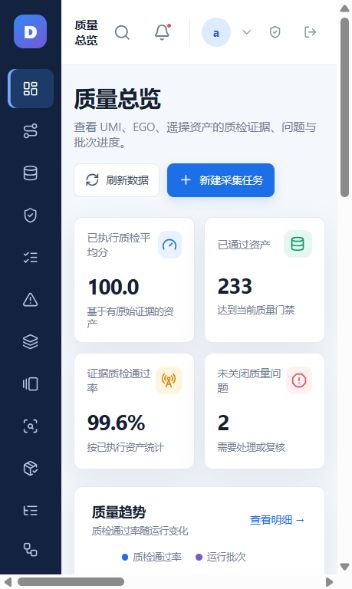
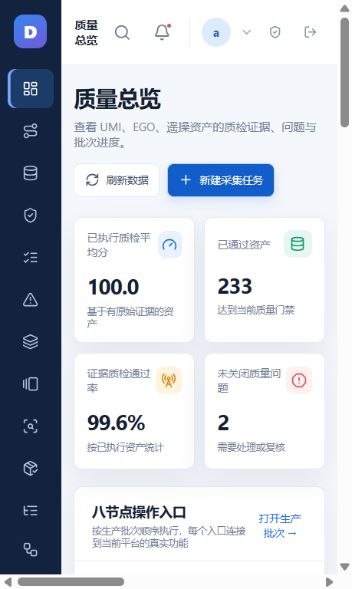
feat: add eight-node workflow entrypoints

Changed region(s): [[0.25, 0.8557, 0.875, 0.9779], [0.4688, 0.275, 0.7812, 0.3362], [0.9688, 0.2139, 1.0, 0.3362]]

diff --git a/index.html b/index.html
@@ -11,6 +11,7 @@
     .main{flex:1;min-width:0}.topbar{height:68px;background:#fff;border-bottom:1px solid var(--line);display:flex;align-items:center;justify-content:space-between;padding:0 30px}.crumb{display:flex;gap:8px;align-items:center;color:var(--muted);font-size:12px}.crumb strong{color:var(--text)}.top-actions{display:flex;align-items:center;gap:8px}.icon-btn{position:relative;border:0;background:transparent;color:#6f7d94;border-radius:8px;width:34px;height:34px;display:grid;place-items:center}.icon-btn:hover{background:#f4f7fb;color:var(--primary)}.icon-btn svg{width:18px;height:18px}.notif-dot{position:absolute;width:6px;height:6px;background:var(--red);border:1px solid #fff;border-radius:50%;right:7px;top:7px}.user{border-left:1px solid var(--line);padding-left:12px;margin-left:3px;display:flex;gap:9px;align-items:center}.avatar{width:31px;height:31px;border-radius:50%;background:#ddebff;color:#2b65c7;display:grid;place-items:center;font-size:12px;font-weight:700}.user b{font-size:11px;display:block}.user small{color:var(--muted);font-size:10px;display:block;margin-top:2px}
     .content{padding:25px 30px 40px;max-width:1600px}.page-head{display:flex;justify-content:space-between;align-items:flex-end;margin-bottom:21px}.page-head h1{font-size:23px;letter-spacing:-.4px;margin:0 0 7px}.page-head p{margin:0;color:var(--muted);font-size:12px}.actions{display:flex;align-items:center;gap:8px}.btn,.select,.input{height:35px;border:1px solid var(--line);background:#fff;color:#44536d;border-radius:7px;padding:0 11px;font-size:11px}.btn{display:inline-flex;align-items:center;gap:7px}.btn svg{width:15px;height:15px}.btn.primary{background:var(--primary);border-color:var(--primary);color:#fff;box-shadow:0 4px 10px #1d6fe82b}.btn:hover{border-color:#bcc8d9}.btn.primary:hover{background:#115dcc}.select{padding-right:28px}
     .kpis{display:grid;grid-template-columns:repeat(4,minmax(0,1fr));gap:14px;margin-bottom:17px}.kpi{background:#fff;border:1px solid var(--line);border-radius:9px;padding:16px 17px;box-shadow:var(--shadow);min-height:122px}.kpi-top{display:flex;justify-content:space-between;align-items:center;color:var(--muted);font-size:11px}.kpi-icon{width:29px;height:29px;border-radius:8px;display:grid;place-items:center}.kpi-icon svg{width:16px;height:16px}.blue{color:var(--primary);background:var(--primary-soft)}.green{color:var(--green);background:var(--green-soft)}.amber{color:var(--amber);background:var(--amber-soft)}.red{color:var(--red);background:var(--red-soft)}.kpi-value{font-size:26px;font-weight:750;letter-spacing:-.6px;line-height:1;margin:17px 0 9px}.kpi-foot{font-size:10px;color:var(--muted);display:flex;gap:6px}.up{color:var(--green)}.down{color:var(--red)}
+    .process-entry-panel{margin-bottom:17px;overflow:hidden}.process-entry-grid{display:grid;grid-template-columns:repeat(4,minmax(0,1fr));border-top:1px solid var(--line)}.process-entry{min-height:132px;display:flex;align-items:flex-start;gap:12px;text-align:left;border:0;border-right:1px solid var(--line);border-bottom:1px solid var(--line);background:#fff;padding:17px 16px;transition:.18s}.process-entry:nth-child(4n){border-right:0}.process-entry:hover{background:#f7faff;box-shadow:inset 0 -2px var(--primary)}.process-number{font-size:11px;font-weight:750;color:var(--primary);padding-top:1px;flex:none}.process-entry-copy{min-width:0}.process-entry-copy b{display:block;font-size:13px;color:var(--text);margin-bottom:7px}.process-entry-copy small{display:block;min-height:32px;color:var(--muted);font-size:10px;line-height:1.55}.process-entry-copy a{display:inline-block;margin-top:10px;color:var(--primary);font-size:10px;font-weight:650}.process-entry-copy a:after{content:"";display:block;height:1px;background:currentColor;opacity:.4;margin-top:2px}
     .panel{background:#fff;border:1px solid var(--line);border-radius:9px;box-shadow:var(--shadow)}.panel-head{padding:16px 18px 12px;display:flex;align-items:center;justify-content:space-between}.panel-title{font-weight:700;font-size:14px}.panel-sub{font-size:10px;color:var(--muted);margin-top:4px}.link{border:0;background:none;color:var(--primary);font-size:11px;padding:3px}.layout-top{display:grid;grid-template-columns:minmax(0,1.45fr) minmax(320px,.9fr);gap:17px;margin-bottom:17px}.chart-wrap{padding:3px 18px 15px}.legend{display:flex;gap:15px;color:var(--muted);font-size:10px;margin:0 0 4px 31px}.legend span{display:flex;align-items:center;gap:5px}.legend i{width:7px;height:7px;border-radius:50%}.chart{width:100%;height:205px;display:block}.chart text{fill:#98a3b7;font-size:10px;font-family:inherit}.chart .gridline{stroke:#edf0f5}.chart .axis{stroke:#dfe5ed}.chart .la{fill:none;stroke:var(--primary);stroke-width:2.5}.chart .lb{fill:none;stroke:var(--purple);stroke-width:2.5}.chart .pa{fill:#fff;stroke:var(--primary);stroke-width:2}.chart .pb{fill:#fff;stroke:var(--purple);stroke-width:2}
     .health{padding:1px 18px 17px}.score{display:flex;align-items:center;gap:17px;padding:9px 0 14px}.ring{width:87px;height:87px;border-radius:50%;background:conic-gradient(var(--green) 0 92.6%,#e9f1ee 92.6%);display:grid;place-items:center;position:relative}.ring:after{content:"";position:absolute;inset:8px;border-radius:50%;background:#fff}.ring b{position:relative;z-index:1;font-size:21px}.score b{font-size:13px}.score p{font-size:10px;color:var(--muted);line-height:1.6;margin:5px 0 0}.metric{border-top:1px solid var(--line);padding:11px 0 8px}.metric-line{display:flex;justify-content:space-between;font-size:10px;color:#65728a;margin-bottom:7px}.metric-line b{color:var(--text);font-weight:650}.progress{height:5px;border-radius:8px;background:#edf1f5;overflow:hidden}.progress i{height:100%;display:block;background:var(--green);border-radius:8px}.progress i.warn{background:var(--amber)}
     .layout-bottom{display:grid;grid-template-columns:minmax(0,1.2fr) minmax(360px,.8fr);gap:17px}.table-toolbar{display:flex;gap:7px;align-items:center;padding:0 18px 13px}.search{height:32px;display:flex;align-items:center;gap:7px;border:1px solid var(--line);border-radius:6px;padding:0 9px;background:#fff;flex:1;max-width:260px}.search svg{width:14px;color:#96a2b6}.search input{border:0;outline:0;min-width:0;width:100%;font-size:11px}.filter-select{height:32px;border:1px solid var(--line);border-radius:6px;background:#fff;color:#637087;font-size:10px;padding:0 22px 0 8px}table{border-collapse:collapse;width:100%;min-width:640px}th,td{border-top:1px solid #eef1f5;padding:11px 18px;text-align:left;white-space:nowrap}th{background:#fbfcfe;color:#8c98aa;font-size:10px;font-weight:500}td{font-size:10px;color:#46536a}td:first-child{color:var(--text);font-weight:650}.table-scroll{overflow-x:auto}.status{display:inline-flex;align-items:center;gap:5px;border-radius:20px;padding:4px 8px;font-size:9px}.status:before{content:"";width:5px;height:5px;background:currentColor;border-radius:50%}.high{color:var(--red);background:var(--red-soft)}.medium{color:var(--amber);background:var(--amber-soft)}.low{color:var(--green);background:var(--green-soft)}
@@ -18,8 +19,8 @@
     .drawer,.modal{position:fixed;inset:0;background:#10224255;display:none;z-index:20}.drawer.show,.modal.show{display:block}.drawer-panel{position:absolute;right:0;top:0;height:100%;width:min(570px,100%);background:#fff;box-shadow:-18px 0 35px #10224220;display:flex;flex-direction:column}.drawer-head{padding:18px 21px;border-bottom:1px solid var(--line);display:flex;align-items:center;justify-content:space-between}.drawer-head h3{font-size:15px;margin:0}.drawer-body{padding:18px 21px;overflow:auto}.close{border:0;background:transparent;color:#76839a;width:30px;height:30px;border-radius:6px;display:grid;place-items:center}.close:hover{background:var(--bg)}.detail-grid{display:grid;grid-template-columns:repeat(2,1fr);gap:10px;margin-bottom:17px}.detail-card{border:1px solid var(--line);border-radius:7px;padding:11px}.detail-card span{display:block;color:var(--muted);font-size:9px;margin-bottom:5px}.detail-card b{font-size:12px}.timeline{border-left:2px solid #dfe8f7;padding-left:16px}.timeline-item{position:relative;padding:0 0 17px;font-size:10px;color:#58667e}.timeline-item:before{content:"";position:absolute;left:-22px;top:2px;width:7px;height:7px;border-radius:50%;background:var(--primary);box-shadow:0 0 0 3px var(--primary-soft)}.timeline-item b{display:block;color:var(--text);font-size:11px;margin-bottom:3px}.drawer-footer{margin-top:auto;border-top:1px solid var(--line);padding:13px 21px;display:flex;justify-content:flex-end;gap:8px}
     .modal-card{width:min(520px,calc(100% - 28px));background:#fff;border-radius:9px;margin:10vh auto 0;box-shadow:var(--shadow);overflow:hidden}.modal-body{padding:18px}.field{display:grid;gap:6px;margin-bottom:13px}.field label{font-size:10px;color:#5d6b83}.field input,.field select,.field textarea{border:1px solid var(--line);border-radius:6px;padding:9px;font-size:11px;outline:0}.field textarea{resize:vertical;min-height:72px}.modal-foot{display:flex;justify-content:flex-end;gap:8px;border-top:1px solid var(--line);padding:13px 18px}.toast{position:fixed;right:22px;bottom:22px;background:#152b4d;color:#fff;font-size:11px;padding:11px 14px;border-radius:7px;box-shadow:0 10px 25px #1022423b;opacity:0;transform:translateY(8px);pointer-events:none;transition:.2s;z-index:30}.toast.show{opacity:1;transform:translateY(0)}
     .module-grid{display:grid;grid-template-columns:repeat(3,minmax(0,1fr));gap:14px;margin-bottom:17px}.module-stat{background:#fff;border:1px solid var(--line);border-radius:8px;padding:15px 16px;box-shadow:var(--shadow)}.module-stat span{font-size:10px;color:var(--muted)}.module-stat b{display:block;font-size:22px;margin:10px 0 5px}.module-stat small{font-size:9px;color:var(--muted)}.module-actions{display:flex;align-items:center;gap:8px;padding:0 18px 14px;flex-wrap:wrap}.module-table tr{cursor:pointer}.module-table tr:hover td{background:#f8faff}.tag{display:inline-flex;padding:4px 7px;border-radius:5px;font-size:9px;color:#44536d;background:#eef2f7}.switch{width:34px;height:19px;border:0;border-radius:20px;background:#cfd6e2;position:relative;vertical-align:middle}.switch:after{content:"";position:absolute;width:15px;height:15px;border-radius:50%;background:#fff;left:2px;top:2px;box-shadow:0 1px 3px #26395433;transition:.2s}.switch.on{background:var(--primary)}.switch.on:after{left:17px}.empty-state{text-align:center;padding:50px;color:var(--muted)}.empty-state svg{width:32px;height:32px;margin:0 auto 10px;color:#9eacc0}
-    @media(max-width:1120px){.sidebar{width:205px;flex-basis:205px}.content{padding:22px}.topbar{padding:0 22px}.layout-top,.layout-bottom{grid-template-columns:1fr}.module-grid{grid-template-columns:1fr}}
-    @media(max-width:760px){.sidebar{width:64px;flex-basis:64px;padding:15px 8px}.brand{padding:0 6px 22px}.brand div:not(.brand-mark),.nav-title,.nav button span,.side-foot{display:none}.nav button{justify-content:center;padding:12px}.content{padding:18px 13px 30px}.topbar{padding:0 14px}.crumb span{display:none}.user div:not(.avatar){display:none}.page-head{display:block}.actions{margin-top:14px;flex-wrap:wrap}.kpis{grid-template-columns:repeat(2,1fr);gap:10px}.kpi{padding:13px}.kpi-value{font-size:22px}.table-toolbar{flex-wrap:wrap}.search{max-width:none;flex-basis:100%}}
+    @media(max-width:1120px){.sidebar{width:205px;flex-basis:205px}.content{padding:22px}.topbar{padding:0 22px}.layout-top,.layout-bottom{grid-template-columns:1fr}.module-grid{grid-template-columns:1fr}.process-entry-grid{grid-template-columns:repeat(2,minmax(0,1fr))}.process-entry:nth-child(4n){border-right:1px solid var(--line)}.process-entry:nth-child(2n){border-right:0}}
+    @media(max-width:760px){.sidebar{width:64px;flex-basis:64px;padding:15px 8px}.brand{padding:0 6px 22px}.brand div:not(.brand-mark),.nav-title,.nav button span,.side-foot{display:none}.nav button{justify-content:center;padding:12px}.content{padding:18px 13px 30px}.topbar{padding:0 14px}.crumb span{display:none}.user div:not(.avatar){display:none}.page-head{display:block}.actions{margin-top:14px;flex-wrap:wrap}.kpis{grid-template-columns:repeat(2,1fr);gap:10px}.kpi{padding:13px}.kpi-value{font-size:22px}.table-toolbar{flex-wrap:wrap}.search{max-width:none;flex-basis:100%}.process-entry-grid{grid-template-columns:1fr}.process-entry{border-right:0}.process-entry:nth-child(2n){border-right:0}}
   </style>
   <link rel="stylesheet" href="assets/extensions.css?v=20260923-v29" />
 </head>
@@ -44,6 +45,16 @@
       <section class="content">
         <div class="page-head"><div><h1 id="pageTitle">质量总览</h1><p id="pageDesc">查看 UMI、EGO、遥操资产的质检证据、问题与批次进度。</p></div><div class="actions"><select class="select" id="rangeSelect"><option>近 7 天</option><option>近 30 天</option><option>本季度</option></select><button class="btn" id="refreshBtn"><i data-lucide="refresh-cw"></i>刷新数据</button><button class="btn primary" id="createBtn"><i data-lucide="plus"></i>新建采集任务</button></div></div>
         <div id="overviewContent"><div class="kpis"><div class="kpi"><div class="kpi-top">质检通过资产平均分<div class="kpi-icon blue"><i data-lucide="gauge"></i></div></div><div class="kpi-value" id="overviewQualityScore">--</div><div class="kpi-foot"><span>基于有原始证据的资产</span></div></div><div class="kpi"><div class="kpi-top">已通过资产<div class="kpi-icon green"><i data-lucide="database"></i></div></div><div class="kpi-value" id="overviewPassedAssets">0</div><div class="kpi-foot"><span>达到当前质量门禁</span></div></div><div class="kpi"><div class="kpi-top">证据质检通过率<div class="kpi-icon amber"><i data-lucide="radio-tower"></i></div></div><div class="kpi-value" id="overviewPassRate">--</div><div class="kpi-foot"><span>按已执行资产统计</span></div></div><div class="kpi"><div class="kpi-top">未关闭质量问题<div class="kpi-icon red"><i data-lucide="octagon-alert"></i></div></div><div class="kpi-value" id="overviewIssueCount">0</div><div class="kpi-foot"><span>需要处理或复核</span></div></div></div>
+        <section class="panel process-entry-panel"><div class="panel-head"><div><div class="panel-title">八节点操作入口</div><div class="panel-sub">按生产批次顺序执行，每个入口连接到当前平台的真实功能</div></div><button class="link" id="processWorkflowLink">打开生产批次 →</button></div><div class="process-entry-grid">
+          <button class="process-entry" data-process-entry="workflow" type="button"><span class="process-number">01</span><span class="process-entry-copy"><b>上传 / 导入</b><small>导入总文件夹，自动识别 meta、data、video</small><a>进入导入 →</a></span></button>
+          <button class="process-entry" data-process-entry="qc" type="button"><span class="process-number">02</span><span class="process-entry-copy"><b>数据清洗</b><small>检查文件签名、结构和服务端存储一致性</small><a>查看清洗 →</a></span></button>
+          <button class="process-entry" data-process-entry="assets" type="button"><span class="process-number">03</span><span class="process-entry-copy"><b>数据筛选</b><small>按类型、场景和批次门禁筛选可用资产</small><a>筛选资产 →</a></span></button>
+          <button class="process-entry" data-process-entry="annotation" type="button"><span class="process-number">04</span><span class="process-entry-copy"><b>数据标注</b><small>维护 Episode 指令、结果和标注版本</small><a>进入标注 →</a></span></button>
+          <button class="process-entry" data-process-entry="annotation" type="button"><span class="process-number">05</span><span class="process-entry-copy"><b>标注审核</b><small>独立复核标注，审核结果参与验收门禁</small><a>进入审核 →</a></span></button>
+          <button class="process-entry" data-process-entry="qc" type="button"><span class="process-number">06</span><span class="process-entry-copy"><b>数据质检</b><small>运行规则、LeRobot schema 和媒体一致性检查</small><a>执行质检 →</a></span></button>
+          <button class="process-entry" data-process-entry="exports" type="button"><span class="process-number">07</span><span class="process-entry-copy"><b>格式转换</b><small>确认交付格式并记录输入指纹和转换证据</small><a>查看转换 →</a></span></button>
+          <button class="process-entry" data-process-entry="exports" type="button"><span class="process-number">08</span><span class="process-entry-copy"><b>打包交付</b><small>验收通过后生成 Manifest、质检报告和标注清单</small><a>进入交付 →</a></span></button>
+        </div></section>
         <div class="layout-top"><section class="panel"><div class="panel-head"><div><div class="panel-title">质量趋势</div><div class="panel-sub">综合评分与同步通过率变化</div></div><button class="link" id="trendDetail">查看明细 →</button></div><div class="chart-wrap"><div class="legend"><span><i style="background:#1d6fe8"></i>综合评分</span><span><i style="background:#7559d5"></i>同步通过率</span></div><svg class="chart" viewBox="0 0 700 220" preserveAspectRatio="none"><line class="gridline" x1="42" y1="22" x2="680" y2="22"/><line class="gridline" x1="42" y1="65" x2="680" y2="65"/><line class="gridline" x1="42" y1="108" x2="680" y2="108"/><line class="gridline" x1="42" y1="151" x2="680" y2="151"/><line class="axis" x1="42" y1="194" x2="680" y2="194"/><text x="9" y="26">100</text><text x="14" y="69">95</text><text x="14" y="112">90</text><text x="14" y="155">85</text><text x="14" y="198">80</text><text x="49" y="214">06/22</text><text x="154" y="214">06/23</text><text x="260" y="214">06/24</text><text x="365" y="214">06/25</text><text x="470" y="214">06/26</text><text x="577" y="214">06/27</text><text x="648" y="214">06/28</text><polyline class="la" points="50,112 156,101 262,116 368,75 474,83 580,62 680,50"/><polyline class="lb" points="50,82 156,91 262,74 368,69 474,55 580,62 680,49"/><g><circle class="pa" cx="50" cy="112" r="3.5"/><circle class="pa" cx="156" cy="101" r="3.5"/><circle class="pa" cx="262" cy="116" r="3.5"/><circle class="pa" cx="368" cy="75" r="3.5"/><circle class="pa" cx="474" cy="83" r="3.5"/><circle class="pa" cx="580" cy="62" r="3.5"/><circle class="pa" cx="680" cy="50" r="3.5"/><circle class="pb" cx="50" cy="82" r="3.5"/><circle class="pb" cx="156" cy="91" r="3.5"/><circle class="pb" cx="262" cy="74" r="3.5"/><circle class="pb" cx="368" cy="69" r="3.5"/><circle class="pb" cx="474" cy="55" r="3.5"/><circle class="pb" cx="580" cy="62" r="3.5"/><circle class="pb" cx="680" cy="49" r="3.5"/></g></svg></div></section>
           <section class="panel"><div class="panel-head"><div><div class="panel-title">质量健康度</div><div class="panel-sub">三类数据真实验收表现</div></div><button class="link" id="healthDetail">详情 →</button></div><div class="health"><div class="score"><div class="ring" id="healthRing"><b id="healthScore">--</b></div><div><b id="healthState">等待证据质检</b><p id="healthSummary">正在读取服务端验收结果</p></div></div><div class="metric"><div class="metric-line"><span>UMI 数据</span><b id="healthUmi">--</b></div><div class="progress"><i id="healthUmiBar" style="width:0%"></i></div></div><div class="metric"><div class="metric-line"><span>EGO 数据</span><b id="healthEgo">--</b></div><div class="progress"><i id="healthEgoBar" style="width:0%"></i></div></div><div class="metric"><div class="metric-line"><span>遥操数据</span><b id="healthTeleop">--</b></div><div class="progress"><i class="warn" id="healthTeleopBar" style="width:0%"></i></div></div></div></section></div>
          <div class="layout-bottom"><section class="panel"><div class="panel-head"><div><div class="panel-title">待处理质量问题</div><div class="panel-sub">需要审核或返工的高优先级数据</div></div><button class="link" id="allIssues">读取中…</button></div><div class="table-toolbar"><div class="search"><i data-lucide="search"></i><input id="issueSearch" placeholder="搜索问题、资产或字段" /></div><select class="filter-select" id="typeFilter"><option value="all">全部类型</option><option value="UMI">UMI</option><option value="EGO">EGO</option><option value="遥操">遥操</option></select><select class="filter-select" id="levelFilter"><option value="all">全部优先级</option><option value="高">高</option><option value="中">中</option></select></div><div class="table-scroll"><table><thead><tr><th>问题描述</th><th>数据类型</th><th>数据资产</th><th>影响字段</th><th>发现时间</th><th>优先级</th></tr></thead><tbody id="issueBody"><tr><td colspan="6"><div class="empty-inline">正在读取服务端问题清单</div></td></tr></tbody></table></div></section>

diff --git a/assets/extensions.js b/assets/extensions.js
@@ -204,17 +204,18 @@
     showPage(key);
   }
   function workflowStages(selected,assets,openIssues,batches,exportsList,accepted,delivered){
-    const episodes=assets.filter(asset=>asset.bundleRole==='trajectory'&&/episode_\d+\.parquet$/i.test(asset.relativePath||asset.name)),episodeIds=new Set(episodes.map(asset=>asset.id)),annotations=extRead('embodiedAnnotations',[]).filter(item=>episodeIds.has(item.assetId)),approved=episodes.filter(asset=>annotations.some(item=>item.assetId===asset.id&&item.status==='已通过'&&String(item.instruction||'').trim()&&['success','failure'].includes(item.outcome))).length;
+    const episodes=assets.filter(asset=>asset.bundleRole==='trajectory'&&/episode_\d+\.parquet$/i.test(asset.relativePath||asset.name)),episodeIds=new Set(episodes.map(asset=>asset.id)),annotations=extRead('embodiedAnnotations',[]).filter(item=>episodeIds.has(item.assetId)),annotationComplete=episodes.length>0&&annotations.length===episodes.length&&annotations.every(item=>String(item.instruction||'').trim()&&['success','failure'].includes(item.outcome)),approved=episodes.filter(asset=>annotations.some(item=>item.assetId===asset.id&&item.status==='已通过'&&String(item.instruction||'').trim()&&['success','failure'].includes(item.outcome))).length;
     const cleanCount=assets.filter(asset=>asset.serverFile&&asset.inspection?.empty!==true&&asset.serverFile.contentCheck?.valid!==false&&asset.serverFile.deepCheck?.status!=='invalid').length;
-    const assetIds=new Set(assets.map(asset=>asset.id));
-    const cleanDone=assets.length>0&&cleanCount===assets.length, qcDone=assets.length>0&&assets.every(item=>item.lastQcAt), annotationDone=episodes.length>0&&approved===episodes.length, issueDone=qcDone&&openIssues.length===0&&annotationDone, issueAction=openIssues.length?'issues':annotationDone?'issues':'annotation', latestBatch=batches.find(batch=>Array.isArray(batch.targetIds)&&batch.targetIds.some(id=>assetIds.has(id))), latestExport=exportsList.find(job=>selected&&String(job.name||'').startsWith(String(selected.name||'')));
+    const assetIds=new Set(assets.map(asset=>asset.id)),cleanDone=assets.length>0&&cleanCount===assets.length,qcDone=assets.length>0&&assets.every(item=>item.lastQcAt),reviewDone=annotationComplete&&approved===episodes.length,issueDone=qcDone&&openIssues.length===0&&reviewDone,latestBatch=batches.find(batch=>Array.isArray(batch.targetIds)&&batch.targetIds.some(id=>assetIds.has(id))),latestExport=exportsList.find(job=>selected&&String(job.name||'').startsWith(String(selected.name||''))),convertDone=Boolean(latestExport?.format),deliverDone=Boolean(latestExport&&latestExport.status==='清单就绪');
     return [
-      {key:'import',label:'导入批次',done:assets.length>0,detail:assets.length?`${assets.length} 个资产已入库`:'等待选择总文件夹',action:'import'},
-      {key:'qc',label:'自动质检',done:qcDone,detail:latestBatch?`${latestBatch.id} · 通过率 ${latestBatch.passRate}% · 基础检查 ${cleanCount}/${assets.length}`:`基础检查 ${cleanCount}/${assets.length}，等待执行证据质检`,action:'qc'},
-      {key:'annotation',label:'Episode 标注',done:annotationDone,detail:!qcDone?'质检完成后生成 Episode 标注队列':episodes.length?`${approved}/${episodes.length} 个 Episode 已审核`:selected?'未识别 Episode 轨迹':'等待导入数据包',action:'annotation'},
-      {key:'issues',label:'问题处理',done:issueDone,detail:!qcDone?'质检完成后生成问题单':openIssues.length?`${openIssues.length} 条问题未关闭`:annotationDone?'无未关闭问题':'等待 Episode 标注完成',action:issueAction},
-      {key:'accept',label:'批次验收',done:accepted,detail:accepted?'已签署验收':selected?.status==='待验收'?'等待负责人签署':selected&&!selected.ready?`仍有 ${bundleBlockers(selected).length} 项门禁未满足`:'问题清零后提交验收',action:'accept'},
-      {key:'deliver',label:'交付',done:delivered,detail:delivered?'已有交付记录':latestExport?'已生成交付 Manifest，等待打包':'验收后生成可追溯交付包',action:'exports'},
+      {key:'import',label:'上传 / 导入',done:assets.length>0,detail:assets.length?`${assets.length} 个资产已入库`:'等待选择总文件夹',action:'import'},
+      {key:'clean',label:'数据清洗',done:cleanDone,detail:assets.length?`基础检查 ${cleanCount}/${assets.length}`:'导入后自动检查文件结构',action:'clean'},
+      {key:'select',label:'数据筛选',done:Boolean(selected&&assets.length),detail:selected?`${assets.length} 个资产已纳入当前批次`:'先选择一个生产批次',action:'select'},
+      {key:'annotate',label:'数据标注',done:annotationComplete,detail:!qcDone?'质检后生成 Episode 标注队列':episodes.length?`${annotations.length}/${episodes.length} 个 Episode 已填写标注`:'未识别 Episode 轨迹',action:'annotate'},
+      {key:'review',label:'标注审核',done:reviewDone,detail:annotationComplete?`${approved}/${episodes.length} 个 Episode 已通过审核`:'完成标注后进入独立审核',action:'review'},
+      {key:'quality',label:'数据质检',done:qcDone,detail:latestBatch?`${latestBatch.id} · 通过率 ${latestBatch.passRate}%`:'等待执行证据质检',action:'quality'},
+      {key:'convert',label:'格式转换',done:convertDone,detail:latestExport?`已记录 ${latestExport.format} 交付格式`:'验收通过后生成格式清单',action:'convert'},
+      {key:'deliver',label:'打包交付',done:deliverDone,detail:deliverDone?`Manifest ${latestExport.id} 已就绪`:'完成验收后生成可追溯交付清单',action:'deliver'},
     ];
   }
   function workflowTemplate(){
@@ -222,14 +223,14 @@
     if(!activeWorkflowBundleId&&packages[0])activeWorkflowBundleId=packages[0].id;
     const selected=packages.find(item=>item.id===activeWorkflowBundleId)||packages[0]||null,assets=selected?selected.files:snapshot.assets,openIssues=selected?snapshot.openIssues.filter(issue=>assets.some(asset=>asset.id===issue.assetId)):snapshot.openIssues,annotationPending=selected?.annotationPending||0,qcDone=assets.length>0&&assets.every(item=>item.lastQcAt),ready=Boolean(selected?.ready),accepted=selected?.status==='已验收',delivered=exportsList.some(job=>selected&&String(job.name||'').startsWith(String(selected.name||''))),typeSummary=['UMI','EGO','遥操'].map(type=>`${type} ${assets.filter(item=>item.type===type).length}`).join(' · '),batchName=selected?.name||latestAsset?.scene||'尚未导入生产批次',stages=workflowStages(selected,assets,openIssues,batches,exportsList,accepted,delivered),latestBatch=batches.find(batch=>Array.isArray(batch.targetIds)&&batch.targetIds.some(id=>assets.some(asset=>asset.id===id))),latestExport=exportsList.find(job=>selected&&String(job.name||'').startsWith(String(selected.name||''))),roleSummary=selected?.roles instanceof Set?[...selected.roles].join(' / '):Array.isArray(selected?.roles)?selected.roles.join(' / '):String(selected?.roles||''),blockers=selected?bundleBlockers(selected):['请先导入一个完整数据包'];
     if(selected?.roles instanceof Set) selected.roles=[...selected.roles];
-     const firstPending=stages.find(stage=>!stage.done)||stages[stages.length-1],actionText=firstPending.key==='import'?'导入总文件夹':firstPending.key==='qc'?'运行自动质检':firstPending.action==='annotation'?'进入标注审核':firstPending.key==='issues'?'处理问题':firstPending.key==='accept'?(selected?.status==='待验收'?'签署批次验收':selected&&!selected.ready?'完成门禁':'提交批次验收'):firstPending.action==='assets'?'查看数据资产':'生成交付包';
+     const firstPending=stages.find(stage=>!stage.done)||stages[stages.length-1],actionText=firstPending.key==='import'?'导入总文件夹':firstPending.key==='clean'||firstPending.key==='quality'?'打开质量检测':firstPending.action==='annotation'?'进入标注审核':firstPending.key==='issues'?'处理问题':firstPending.key==='accept'?(selected?.status==='待验收'?'签署批次验收':selected&&!selected.ready?'完成门禁':'提交批次验收'):firstPending.action==='assets'?'查看数据资产':firstPending.action==='exports'?'进入交付清单':'查看当前节点';
     const batchOptions=packages.map(item=>`[option value="${escapeHtml(item.id)}"${item.id===selected?.id?' selected':''}]${escapeHtml(item.name)} · ${escapeHtml(item.status)} · ${item.files.length} 个文件[/option]`).join('');
     return m(`
        [div class="ext-kpis"][div class="ext-kpi"][span]当前生产批次[/span][b style="font-size:18px"]${escapeHtml(batchName)}[/b][small]${escapeHtml(typeSummary||'尚未导入数据')}[/small][/div][div class="ext-kpi"][span]批次资产[/span][b]${assets.length}[/b][small]${selected?'已按批次隔离':'全部生产资产'}[/small][/div][div class="ext-kpi"][span]待处理事项[/span][b class="${openIssues.length||annotationPending?'danger':''}">${openIssues.length+annotationPending}[/b][small]${openIssues.length?`${openIssues.length} 条问题待处置`:annotationPending?`${annotationPending} 条标注待审核`:'质量门禁无阻断'}</small][/div][div class="ext-kpi"][span]批次状态[/span][b]${accepted?'已验收':selected?.status||'待导入'}[/b][small]${delivered?'已有交付记录':'状态由服务端门禁计算'}[/small][/div][/div]
       [section class="panel workflow-panel"][div class="panel-head"][div][div class="panel-title"]生产批次工作台</div][div class="panel-sub"]当前页面直接执行批次动作；系统会自动保存质检、验收和交付结果。</div][/div][/div]
         [div class="workflow-toolbar"][label]当前批次[/label][select class="select" id="workflowBatchSelect" ${packages.length?'':'disabled'}][option value=""]${packages.length?'选择一个数据包':'尚无可选数据包，请先导入总文件夹'}[/option]${batchOptions}[/select][button class="btn" id="workflowRefresh" type="button"][i data-lucide="refresh-cw"][/i]刷新状态[/button][/div]
         [div class="workflow-steps"]${stages.map((stage,index)=>`[button class="workflow-step ${stage.done?'done':''} ${stage.key===firstPending.key?'current':''}" data-workflow-action="${stage.action}" type="button"][span class="workflow-index"]${stage.done?'✓':index+1}[/span][span][b]${stage.label}[/b][small]${stage.detail}[/small][/span][i data-lucide="chevron-right"][/i][/button]`).join('')}[/div]
-        [div class="workflow-blockers"][div][span class="eyebrow"]当前门禁${blockers.length?'未通过':'已通过'}</span][b]${blockers.length?escapeHtml(blockers.join(' · ')):'文件、质检、问题与审核均已满足'}</b][/div][div class="row-actions"][button class="btn" id="workflowRecheckIssues" type="button"${openIssues.length?'':' disabled'}][i data-lucide="scan-search"][/i]复检问题${openIssues.length?`（${openIssues.length}）`:''}[/button][button class="btn" id="workflowDeepCheck" type="button"${openIssues.filter(issue=>issue.metric==='语义深度解析').length?'':' disabled'}][i data-lucide="file-check-2"][/i]深度校验[/button][/div][/div]
+        [div class="workflow-blockers"][div][span class="eyebrow"]当前门禁${blockers.length?'未通过':'已通过'}</span][b]${blockers.length?escapeHtml(blockers.join(' · ')):'文件、质检、问题与审核均已满足'}</b][/div][div class="row-actions"][button class="btn" data-workflow-action="issues" type="button"][i data-lucide="triangle-alert"][/i]问题处理${openIssues.length?`（${openIssues.length}）`:''}[/button][button class="btn" id="workflowRecheckIssues" type="button"${openIssues.length?'':' disabled'}][i data-lucide="scan-search"][/i]复检问题[/button][button class="btn" id="workflowDeepCheck" type="button"${openIssues.filter(issue=>issue.metric==='语义深度解析').length?'':' disabled'}][i data-lucide="file-check-2"][/i]深度校验[/button][button class="btn primary" data-workflow-action="accept" type="button"][i data-lucide="badge-check"][/i]${accepted?'已完成验收':selected?.status==='待验收'?'签署批次验收':'提交批次验收'}[/button][/div][/div]
         [div class="workflow-next"][div][span class="eyebrow"]${blockers.length?'当前门禁阻断':'下一步建议'}</span][b]${firstPending.label}</b><small>${blockers.length?escapeHtml(blockers.join('；')):firstPending.detail}</small>[/div][div style="display:flex;gap:8px;flex-wrap:wrap"][button class="btn primary" data-workflow-action="${firstPending.action}" type="button"${blockers.length?' disabled':''}][i data-lucide="arrow-right"][/i]${actionText}[/button][button class="btn" data-workflow-action="issues" type="button"][i data-lucide="triangle-alert"][/i]查看问题[/button][/div][/div]
       [section class="panel workflow-lineage"][div class="panel-head"][div][div class="panel-title"]批次证据链</div][div class="panel-sub"]输入、处理结果、版本和交付证据绑定到同一个批次，可从运行记录复现。</div][/div][/div][div class="lineage-grid"][div class="lineage-item"][span]输入快照[/span][b]${escapeHtml(selected?.id||'--')} · ${assets.length} 个资产[/b][small]${escapeHtml((selected?.roles||[]).join(' / ')||'等待分组')}[/small][/div][div class="lineage-item"][span]清洗 / 筛选[/span][b]${assets.filter(asset=>asset.inspection&&asset.serverFile).length}/${assets.length} 通过基础检查</b][small]${openIssues.length?'仍有问题需要处置':'当前没有未关闭问题'}</small][/div][div class="lineage-item"][span]质检运行[/span][b]${escapeHtml(latestBatch?.id||'尚未执行')}</b][small]${latestBatch?`通过率 ${latestBatch.passRate}% · ${latestBatch.issueCount} 个问题`:'执行后生成不可变运行快照'}</small][/div][div class="lineage-item"][span]交付产物[/span][b]${escapeHtml(latestExport?.id||'尚未生成')}</b][small]${accepted?'批次已验收，可生成当前有效交付':'验收通过后才允许交付'}</small][/div][/div][/section]
       [/section]
@@ -241,7 +242,7 @@
   async function workflowExport(){const snapshot=qualityHealthSnapshot(),item=packageHealthRows(snapshot).find(row=>row.id===activeWorkflowBundleId),name=`${item?.name||'Embodied-Quality'}-交付-${new Date().toISOString().slice(0,10)}`,assetIds=item?.files.map(asset=>asset.id);try{const response=await fetch('/api/exports',{method:'POST',headers:{'Content-Type':'application/json'},body:JSON.stringify({name,assetIds,format:'LeRobot',contents:['原始文件','质量报告','标注清单'],user:authUser?.name||'当前用户'})}),data=await response.json();if(!response.ok)throw new Error(data.error||'交付清单生成失败');extWrite('embodiedExports',data.exports||[]);await syncServerState();moduleTemplates.workflow=workflowTemplate();showPage('workflow');showToast(`当前批次交付 Manifest 已生成：${data.job.id}`)}catch(error){showToast(error.message)}}
   function bindWorkflow(){
     const select=document.getElementById('workflowBatchSelect');if(select)select.onchange=()=>{activeWorkflowBundleId=select.value;moduleTemplates.workflow=workflowTemplate();showPage('workflow')};
-    document.querySelectorAll('[data-workflow-action]').forEach(button=>button.onclick=async()=>{const key=button.dataset.workflowAction;button.disabled=true;try{if(key==='import'){startImportWizard();return}if(key==='qc'){await workflowQc();return}if(key==='accept'){await workflowAcceptance();return}if(key==='exports'){await workflowExport();return}if(key==='assets'){navigate('assets',document.querySelector('.nav button[data-page="assets"]'));return}if(key==='annotation'){navigate('annotation',document.querySelector('.nav button[data-page="annotation"]'));return}navigate('issues',document.querySelector('.nav button[data-page="issues"]'))}finally{button.disabled=false}});
+    document.querySelectorAll('[data-workflow-action]').forEach(button=>button.onclick=async()=>{const key=button.dataset.workflowAction;button.disabled=true;try{if(key==='import'){startImportWizard();return}if(key==='clean'||key==='quality'||key==='qc'){navigate('qc',document.querySelector('.nav button[data-page="qc"]'));return}if(key==='select'||key==='assets'){navigate('assets',document.querySelector('.nav button[data-page="assets"]'));return}if(key==='annotate'||key==='review'||key==='annotation'){navigate('annotation',document.querySelector('.nav button[data-page="annotation"]'));return}if(key==='convert'||key==='deliver'||key==='exports'){navigate('exports',document.querySelector('.nav button[data-page="exports"]'));return}if(key==='accept'){await workflowAcceptance();return}navigate('issues',document.querySelector('.nav button[data-page="issues"]'))}finally{button.disabled=false}});
     const refresh=document.getElementById('workflowRefresh');if(refresh)refresh.onclick=async()=>{refresh.disabled=true;await syncServerState();moduleTemplates.workflow=workflowTemplate();showPage('workflow');showToast('批次状态已从服务端刷新');refresh.disabled=false};
     const recheck=document.getElementById('workflowRecheckIssues');if(recheck)recheck.onclick=async()=>{const snapshot=qualityHealthSnapshot(),selected=packageHealthRows(snapshot).find(row=>row.id===activeWorkflowBundleId),ids=snapshot.openIssues.filter(issue=>selected?.files.some(asset=>asset.id===issue.assetId)).map(issue=>issue.id);if(!ids.length)return;await recheckIssues(ids,recheck);await syncServerState();moduleTemplates.workflow=workflowTemplate();showPage('workflow')};
     const deepCheck=document.getElementById('workflowDeepCheck');if(deepCheck)deepCheck.onclick=workflowDeepCheck;
@@ -1031,6 +1032,8 @@
   }
   function renderGlobalSearch(query){const tasks=readStore(storageKey.tasks).map(task=>({title:task.name,sub:`采集任务 · ${task.type}`,page:'tasks',kind:'任务'})),assets=readStore(storageKey.assets).map(asset=>({title:asset.name,sub:`数据资产 · ${asset.type}`,page:'assets',kind:'资产'})),episodes=getEpisodes().map(ep=>({title:ep.id,sub:`${ep.scene} · ${ep.task}`,page:'episodes',kind:'Episode'})),nodes=extRead('embodiedNodes',[]).map(node=>({title:node.id,sub:`${node.site} · ${node.status} · ${node.type}`,page:'nodes',kind:'节点'})),datasets=extRead('embodiedDatasets',[]).map(item=>({title:`${item.name} ${item.version}`,sub:`数据集 · ${item.status}`,page:'datasets',kind:'数据集'})),members=extRead('embodiedMembers',[]).map(item=>({title:item.name,sub:`${item.role} · ${item.domain}`,page:'users',kind:'成员'})),logs=extRead('embodiedAudit').map(log=>({title:log.target,sub:`${log.action} · ${log.user}`,page:'audit',kind:'审计'}));const value=query.trim().toLowerCase(),items=[...assets,...episodes,...tasks,...nodes,...datasets,...members,...logs].filter(item=>!value||`${item.title} ${item.sub}`.toLowerCase().includes(value)).slice(0,12),box=document.getElementById('globalSearchResults');box.innerHTML=items.length?items.map(item=>m(`[button class="search-result" data-search-page="${item.page}"][span][b]${escapeHtml(item.title)}[/b][small]${escapeHtml(item.sub)}[/small][/span][span class="search-kind"]${item.kind}[/span][/button]`)).join(''):m('[div class="empty-inline"]没有匹配结果[/div]');box.querySelectorAll('[data-search-page]').forEach(button=>button.onclick=()=>{const nav=document.querySelector(`.nav button[data-page="${button.dataset.searchPage}"]`);document.getElementById('globalSearchDialog').classList.remove('show');navigate(button.dataset.searchPage,nav)})}
   ensureData();ensureAssets();installNavigation();installOverlays();
+  document.querySelectorAll('[data-process-entry]').forEach(button=>button.onclick=()=>{const page=button.dataset.processEntry,navigation=document.querySelector(`.nav button[data-page="${page}"]`);navigate(page,navigation)});
+  document.getElementById('processWorkflowLink').onclick=()=>navigate('workflow',document.querySelector('.nav button[data-page="workflow"]'));
   document.getElementById('allIssues').onclick=()=>navigate('issues',document.querySelector('.nav button[data-page="issues"]'));
   document.getElementById('ruleCenter').onclick=()=>navigate('quality',document.querySelector('.nav button[data-page="quality"]'));
   document.getElementById('healthDetail').onclick=openHealthDetail;
